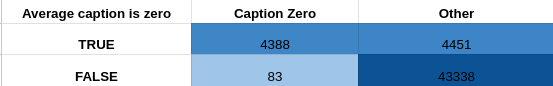
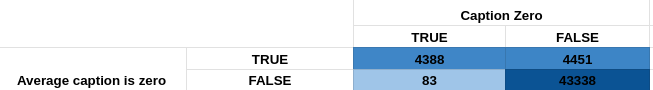
add observations

diff --git a/informe/informe.md b/informe/informe.md
@@ -9,18 +9,40 @@
 ## Descripción
 
 El proyecto consta  de generar un modelo que pueda predecir si una cuenta de la red social Instagram es falsa (ya sea un bot o tenga seguidores comprados). Se utilizará un algoritmo de machine learning entrenado con un dataset de la plataforma kaggle (https://www.kaggle.com/datasets/krpurba/fakeauthentic-user-instagram) el cuál ha recopilado datos de 65326 usuarios reales o auténticos y falsos desde el 1 al 20 de septiembre de 2019, lo cual prueba ser de grán utilidad ya que contiene muchas métricas de cada usuario. Además de ser muy extensa, contiene datos de utilidad como: 
-- Número de posteos.
-- Número de Seguidos.
-- Número de Seguidores.
-- Longitud de biografía.
-- Disponibilidad de imagen de perfil.
-- Disponibilidad de links externos.
-- Longitud promedio de descripción en posteos.
-- Porcentaje de posteos que no son imágenes.
-- Porcentaje de tag de ubicación.
-- Intervalo de tiempo de posteos.
 
-// TODO: Agregar todas las maetricas del dataset
+- Average Caption length: Longitud promedio de descripción en publicaciones.
+
+- Average Hashtags count: Cantidad promedio de hashtags en publicaciones.
+
+- Biography length: Longitud de la biografía.
+
+- Caption Zero: Porcentaje de publicaciones con longitud de la descripición menor a 4 caracteres.
+
+- Comments engagement rate: (número de comentarios) dividido por (número de publicaciones) dividido por (número de seguidores).
+
+- Cosine similarity: Similaridad coseno promedio entre cada par de publicaciones.
+
+- Follower keywords: Uso promedio de palabras "follower hunter" (follow, like, folback, follback, f4f) por publicación.
+
+- Has Picture: Si la cuenta tiene imagen de perfil.
+
+- Like engagement rate: (número de likes) dividido por (número de publicaciones) dividido por (número de seguidores).
+
+- Link Availibility: Si la cuenta tiene un link externo.
+
+- Location tag percentage: Porcentaje de publicaciones con tag de ubicación.
+
+- Non image post percentage: Porcentaje de publicaciones que no son imágenes (video, carousel).
+
+- Number of followers: Número de seguidores.
+
+- Number of followings: Número de seguidos.
+
+- Number of posts: Número de publicaciones.
+
+- Post interval: Intervalo de tiempo en horas entre publicaciones.
+
+- Promotional keywords: Uso promedio de palabras "promocionales" (regrann, contest, repost, giveaway, mention, share, give away, quiz) por publicación.
 
 ## Investigación 
 
@@ -93,3 +115,34 @@ El proyecto consta  de generar un modelo que pueda predecir si una cuenta de la 
 - Promotional keywords (en escala logarítmica)
 
 ![](./images/datasetMetrics/promotional_kw.png)
+
+
+#### Conclusiones
+
+- La distribución de las clases (real o fake) es equitativa, lo cual es bueno para el entrenamiento del modelo.
+
+![](./images/datasetMetrics/class_dist.png)
+
+- Podría considerarse utilizar como feature la diferencia entre el número de seguidores y seguidos (followers - following).
+
+![](./images/datasetMetrics/followers_following_diff_1.png)
+![](./images/datasetMetrics/followers_following_diff_2.png)
+
+- La característica "Caption Zero" no es muy útil ya que los unicos valores que toma son 0 y 1. Además algunos datos son incorrectos ya que hay 83 cuentas que no tienen descripcion en sus publicaciones (la longitud promedio de descripción en publicaciones es 0) pero el valor de la característica es 0.
+
+![](./images/datasetMetrics/caption_zero_diff.png)
+
+
+- Las siguientes características tienen una distribución muy similar entre las clases real y fake. En principio, no serían muy útiles para el entrenamiento del modelo.
+
+  - Non image post percentage
+  - Location tag percentage
+  - Comments engagement rate
+
+- Las siguientes características tienen una distribución muy diferente entre las clases real y fake. Podrían ser muy útiles para el entrenamiento del modelo.
+
+  - Biography length 
+  - Follower keywords
+  - Has Picture
+  - Link Availibility
+  - Promotional keywords 
